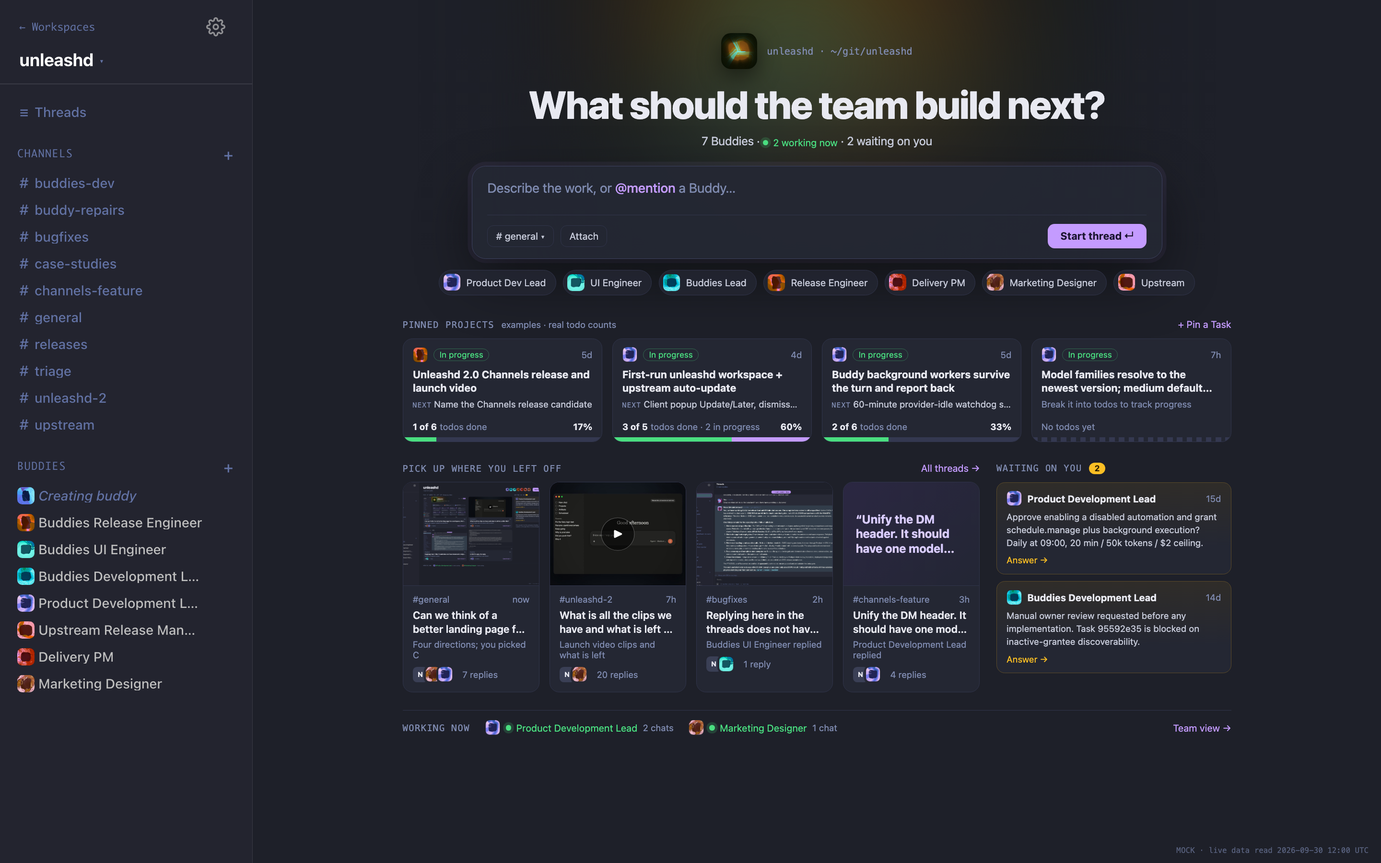
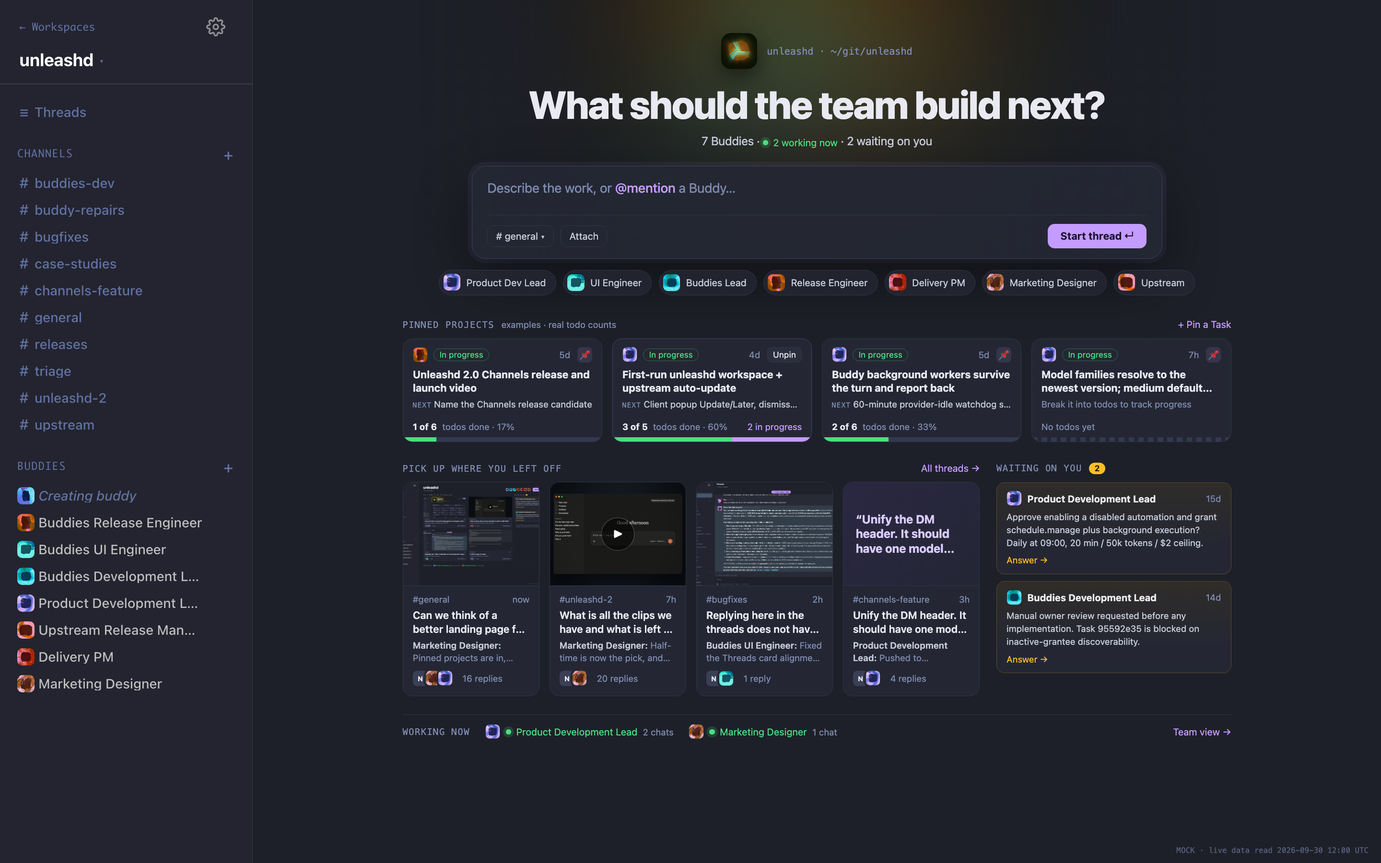
design: workspace home spec pass: real reply excerpts, pin/unpin, 'N of M todos done · P%', clearer no-Buddies copy

diff --git a/product/design/workspace-home/home-phone.html b/product/design/workspace-home/home-phone.html
@@ -30,7 +30,8 @@ h1 { text-align: center; font-weight: 800; color: var(--text); letter-spacing: -
 .t-body { padding: 12px 14px 14px; }
 .t-meta { display: flex; justify-content: space-between; font-size: 13px; }
 .t-title { color: var(--text); font-weight: 600; margin-top: 5px; line-height: 1.35; display: -webkit-box; -webkit-line-clamp: 2; -webkit-box-orient: vertical; overflow: hidden; }
-.t-sum { font-size: 13px; color: var(--muted); margin-top: 4px; }
+.t-sum { font-size: 13px; color: var(--muted); margin-top: 4px; line-height: 1.4; display: -webkit-box; -webkit-line-clamp: 2; -webkit-box-orient: vertical; overflow: hidden; }
+.t-sum b { color: var(--body); font-weight: 600; }
 .t-foot { display: flex; align-items: center; gap: 10px; margin-top: 10px; }
 .ps { display: flex; }
 .pf, .you-av { width: 22px; height: 22px; border-radius: 6px; margin-right: -4px; box-shadow: 0 0 0 2px var(--card); }
@@ -56,7 +57,10 @@ h1 { text-align: center; font-weight: 800; color: var(--text); letter-spacing: -
 .pj-next { font-size: 13px; color: var(--body); margin-top: 6px; white-space: nowrap; overflow: hidden; text-overflow: ellipsis; }
 .pj-count { font-size: 13px; color: var(--muted); margin-top: auto; padding-top: 10px; display: flex; gap: 4px; }
 .pj-count b { color: var(--text); }
-.pj-count span { margin-left: auto; color: var(--text); font-weight: 700; }
+.pj-count .pj-doing { margin-left: auto; color: var(--accent); }
+.pin { margin-left: 2px; width: 22px; height: 22px; border-radius: 6px; display: grid; place-items: center; color: var(--accent); background: rgba(196,155,255,.12); font-size: 12px; }
+.pin.hover { background: var(--card-hi); color: var(--text); width: auto; padding: 0 8px; font-size: 12px; border: 1px solid var(--line); }
+.pj.hover { border-color: #4b3f6e; }
 .muted { color: var(--muted) !important; }
 .pbar { height: 6px; background: #343850; margin: 8px -14px 0; display: flex; }
 .pbar i { display: block; height: 100%; }
@@ -108,9 +112,9 @@ h1 { font-size: 30px; margin-top: 18px; line-height: 1.1; }
 <div class="composer"><div class="ph">Describe the work, or <b>@mention</b>&hellip;</div>
 <div class="bar"><span class="sel"># general &#9662;</span><span class="send">Start &#8629;</span></div></div>
 <div class="chips"><span class="chip"><img src="assets/face-product-lead.png" alt="">Product Dev Lead</span><span class="chip"><img src="assets/face-ui-engineer.png" alt="">UI Engineer</span><span class="chip"><img src="assets/face-dev-lead.png" alt="">Buddies Lead</span><span class="chip"><img src="assets/face-release-engineer.png" alt="">Release Engineer</span><span class="chip"><img src="assets/face-delivery-pm.png" alt="">Delivery PM</span><span class="chip"><img src="assets/face-marketing.png" alt="">Marketing Designer</span><span class="chip"><img src="assets/face-upstream.png" alt="">Upstream</span></div>
-<section class="projects "><div class="sec-head"><span class="label">Pinned projects</span><span class="when">examples &middot; real todo counts</span><a class="more">+ Pin a Task</a></div><div class="pj-row"><article class="pj"><div class="pj-top"><img src="assets/face-release-engineer.png" alt="" title="Buddies Release Engineer"><span class="pj-status">In progress</span><span class="when">5d</span></div><div class="pj-title">Unleashd 2.0 Channels release and launch video</div><div class="pj-next"><span class="label" style="font-size:10px">Next</span> Name the Channels release candidate</div><div class="pj-count"><b>1 of 6</b> todos done<span>17%</span></div><div class="pbar"><i class="done" style="width:16.67%"></i></div></article><article class="pj"><div class="pj-top"><img src="assets/face-product-lead.png" alt="" title="Product Development Lead"><span class="pj-status">In progress</span><span class="when">4d</span></div><div class="pj-title">First-run unleashd workspace + upstream auto-update</div><div class="pj-next"><span class="label" style="font-size:10px">Next</span> Client popup Update/Later, dismissal keyed by upstream sha</div><div class="pj-count"><b>3 of 5</b> todos done &middot; 2 in progress<span>60%</span></div><div class="pbar"><i class="done" style="width:60.00%"></i><i class="doing" style="width:40.00%"></i></div></article><article class="pj"><div class="pj-top"><img src="assets/face-product-lead.png" alt="" title="Product Development Lead"><span class="pj-status">In progress</span><span class="when">5d</span></div><div class="pj-title">Buddy background workers survive the turn and report back</div><div class="pj-next"><span class="label" style="font-size:10px">Next</span> 60-minute provider-idle watchdog still kills a silent Claude wait</div><div class="pj-count"><b>2 of 6</b> todos done<span>33%</span></div><div class="pbar"><i class="done" style="width:33.33%"></i></div></article><article class="pj"><div class="pj-top"><img src="assets/face-product-lead.png" alt="" title="Product Development Lead"><span class="pj-status">In progress</span><span class="when">7h</span></div><div class="pj-title">Model families resolve to the newest version; medium default effort</div><div class="pj-next muted">Break it into todos to track progress</div><div class="pj-count muted">No todos yet</div><div class="pbar empty"></div></article></div></section>
+<section class="projects "><div class="sec-head"><span class="label">Pinned projects</span><span class="when">examples &middot; real todo counts</span><a class="more">+ Pin a Task</a></div><div class="pj-row"><article class="pj"><div class="pj-top"><img src="assets/face-release-engineer.png" alt="" title="Buddies Release Engineer"><span class="pj-status">In progress</span><span class="when">5d</span><span class="pin" title="Pinned">&#128204;</span></div><div class="pj-title">Unleashd 2.0 Channels release and launch video</div><div class="pj-next"><span class="label" style="font-size:10px">Next</span> Name the Channels release candidate</div><div class="pj-count"><b>1 of 6</b>&nbsp;todos done &middot; 17%<span class="pj-doing"></span></div><div class="pbar"><i class="done" style="width:16.67%"></i></div></article><article class="pj hover"><div class="pj-top"><img src="assets/face-product-lead.png" alt="" title="Product Development Lead"><span class="pj-status">In progress</span><span class="when">4d</span><span class="pin hover">Unpin</span></div><div class="pj-title">First-run unleashd workspace + upstream auto-update</div><div class="pj-next"><span class="label" style="font-size:10px">Next</span> Client popup Update/Later, dismissal keyed by upstream sha</div><div class="pj-count"><b>3 of 5</b>&nbsp;todos done &middot; 60%<span class="pj-doing">2 in progress</span></div><div class="pbar"><i class="done" style="width:60.00%"></i><i class="doing" style="width:40.00%"></i></div></article><article class="pj"><div class="pj-top"><img src="assets/face-product-lead.png" alt="" title="Product Development Lead"><span class="pj-status">In progress</span><span class="when">5d</span><span class="pin" title="Pinned">&#128204;</span></div><div class="pj-title">Buddy background workers survive the turn and report back</div><div class="pj-next"><span class="label" style="font-size:10px">Next</span> 60-minute provider-idle watchdog still kills a silent Claude wait</div><div class="pj-count"><b>2 of 6</b>&nbsp;todos done &middot; 33%<span class="pj-doing"></span></div><div class="pbar"><i class="done" style="width:33.33%"></i></div></article><article class="pj"><div class="pj-top"><img src="assets/face-product-lead.png" alt="" title="Product Development Lead"><span class="pj-status">In progress</span><span class="when">7h</span><span class="pin" title="Pinned">&#128204;</span></div><div class="pj-title">Model families resolve to the newest version; medium default effort</div><div class="pj-next muted">Break it into todos to track progress</div><div class="pj-count muted">No todos yet</div><div class="pbar empty"></div></article></div></section>
 <section class="sec"><div class="sec-head"><span class="label">Waiting on you</span><span class="cnt">2</span></div><div class="rq"><div class="rq-h"><img src="assets/face-product-lead.png" alt=""><b>Product Development Lead</b><span class="when">15d</span></div><div class="rq-t">Approve enabling a disabled automation and grant schedule.manage plus background execution? Daily at 09:00, 20 min / 50k tokens / $2 ceiling.</div><div class="rq-a">Answer &rarr;</div></div><div class="rq"><div class="rq-h"><img src="assets/face-dev-lead.png" alt=""><b>Buddies Development Lead</b><span class="when">14d</span></div><div class="rq-t">Manual owner review requested before any implementation. Task 95592e35 is blocked on inactive-grantee discoverability.</div><div class="rq-a">Answer &rarr;</div></div></section>
 <section class="sec"><div class="sec-head"><span class="label">Pick up where you left off</span></div>
-<div class="rail-row"><article class="t"><div class="pv" style="background-image:url(assets/prev-general.png)"></div><div class="t-body"><div class="t-meta"><span class="hash">#general</span><span class="when">now</span></div><div class="t-title">Can we think of a better landing page for a workspace, this is so uninspiring</div><div class="t-sum">Four directions; you picked C</div><div class="t-foot"><span class="ps"><span class="you-av">N</span><img class="pf" src="assets/face-marketing.png" alt=""><img class="pf" src="assets/face-product-lead.png" alt=""></span><span class="when">7 replies</span></div></div></article><article class="t"><div class="pv" style="background-image:url(assets/prev-clips.jpg)"><span class="play">&#9654;</span></div><div class="t-body"><div class="t-meta"><span class="hash">#unleashd-2</span><span class="when">7h</span></div><div class="t-title">What is all the clips we have and what is left to publish this?</div><div class="t-sum">Launch video clips and what is left</div><div class="t-foot"><span class="ps"><span class="you-av">N</span><img class="pf" src="assets/face-marketing.png" alt=""></span><span class="when">20 replies</span></div></div></article><article class="t"><div class="pv" style="background-image:url(assets/prev-thread-ui.png)"></div><div class="t-body"><div class="t-meta"><span class="hash">#bugfixes</span><span class="when">2h</span></div><div class="t-title">Replying here in the threads does not have balanced or aligned UI, we need to fix that</div><div class="t-sum">Buddies UI Engineer replied</div><div class="t-foot"><span class="ps"><span class="you-av">N</span><img class="pf" src="assets/face-ui-engineer.png" alt=""></span><span class="when">1 reply</span></div></div></article><article class="t"><div class="pv pv-text"><span>&ldquo;Unify the DM header. It should have one model picker and not grey out harness change&rdquo;</span></div><div class="t-body"><div class="t-meta"><span class="hash">#channels-feature</span><span class="when">3h</span></div><div class="t-title">Unify the DM header. It should have one model picker and not grey out harness change</div><div class="t-sum">Product Development Lead replied</div><div class="t-foot"><span class="ps"><span class="you-av">N</span><img class="pf" src="assets/face-product-lead.png" alt=""></span><span class="when">4 replies</span></div></div></article></div></section>
+<div class="rail-row"><article class="t"><div class="pv" style="background-image:url(assets/prev-general.png)"></div><div class="t-body"><div class="t-meta"><span class="hash">#general</span><span class="when">now</span></div><div class="t-title">Can we think of a better landing page for a workspace, this is so uninspiring</div><div class="t-sum"><b>Marketing Designer:</b> Pinned projects are in, directly under the composer</div><div class="t-foot"><span class="ps"><span class="you-av">N</span><img class="pf" src="assets/face-marketing.png" alt=""><img class="pf" src="assets/face-product-lead.png" alt=""></span><span class="when">16 replies</span></div></div></article><article class="t"><div class="pv" style="background-image:url(assets/prev-clips.jpg)"><span class="play">&#9654;</span></div><div class="t-body"><div class="t-meta"><span class="hash">#unleashd-2</span><span class="when">7h</span></div><div class="t-title">What is all the clips we have and what is left to publish this?</div><div class="t-sum"><b>Marketing Designer:</b> Half-time is now the pick, and it's 10 dB quieter and rebalanced</div><div class="t-foot"><span class="ps"><span class="you-av">N</span><img class="pf" src="assets/face-marketing.png" alt=""></span><span class="when">20 replies</span></div></div></article><article class="t"><div class="pv" style="background-image:url(assets/prev-thread-ui.png)"></div><div class="t-body"><div class="t-meta"><span class="hash">#bugfixes</span><span class="when">2h</span></div><div class="t-title">Replying here in the threads does not have balanced or aligned UI, we need to fix that</div><div class="t-sum"><b>Buddies UI Engineer:</b> Fixed the Threads card alignment on desktop and phone</div><div class="t-foot"><span class="ps"><span class="you-av">N</span><img class="pf" src="assets/face-ui-engineer.png" alt=""></span><span class="when">1 reply</span></div></div></article><article class="t"><div class="pv pv-text"><span>&ldquo;Unify the DM header. It should have one model picker and not grey out harness change&rdquo;</span></div><div class="t-body"><div class="t-meta"><span class="hash">#channels-feature</span><span class="when">3h</span></div><div class="t-title">Unify the DM header. It should have one model picker and not grey out harness change</div><div class="t-sum"><b>Product Development Lead:</b> Pushed to origin/main. It went from 5c9381e to 09d8b0e</div><div class="t-foot"><span class="ps"><span class="you-av">N</span><img class="pf" src="assets/face-product-lead.png" alt=""></span><span class="when">4 replies</span></div></div></article></div></section>
 <div class="working"><span class="label">Working now</span><span class="w"><img src="assets/face-product-lead.png" alt=""><span class="live">Product Development Lead</span><span class="when">2 chats</span></span><span class="w"><img src="assets/face-marketing.png" alt=""><span class="live">Marketing Designer</span><span class="when">1 chat</span></span><a class="more">Team view &rarr;</a></div>
 </div><div class="tabs"><img src="assets/phone-tabbar.png" alt=""></div></main></body></html>

diff --git a/product/design/workspace-home/home-desktop.html b/product/design/workspace-home/home-desktop.html
@@ -30,7 +30,8 @@ h1 { text-align: center; font-weight: 800; color: var(--text); letter-spacing: -
 .t-body { padding: 12px 14px 14px; }
 .t-meta { display: flex; justify-content: space-between; font-size: 13px; }
 .t-title { color: var(--text); font-weight: 600; margin-top: 5px; line-height: 1.35; display: -webkit-box; -webkit-line-clamp: 2; -webkit-box-orient: vertical; overflow: hidden; }
-.t-sum { font-size: 13px; color: var(--muted); margin-top: 4px; }
+.t-sum { font-size: 13px; color: var(--muted); margin-top: 4px; line-height: 1.4; display: -webkit-box; -webkit-line-clamp: 2; -webkit-box-orient: vertical; overflow: hidden; }
+.t-sum b { color: var(--body); font-weight: 600; }
 .t-foot { display: flex; align-items: center; gap: 10px; margin-top: 10px; }
 .ps { display: flex; }
 .pf, .you-av { width: 22px; height: 22px; border-radius: 6px; margin-right: -4px; box-shadow: 0 0 0 2px var(--card); }
@@ -56,7 +57,10 @@ h1 { text-align: center; font-weight: 800; color: var(--text); letter-spacing: -
 .pj-next { font-size: 13px; color: var(--body); margin-top: 6px; white-space: nowrap; overflow: hidden; text-overflow: ellipsis; }
 .pj-count { font-size: 13px; color: var(--muted); margin-top: auto; padding-top: 10px; display: flex; gap: 4px; }
 .pj-count b { color: var(--text); }
-.pj-count span { margin-left: auto; color: var(--text); font-weight: 700; }
+.pj-count .pj-doing { margin-left: auto; color: var(--accent); }
+.pin { margin-left: 2px; width: 22px; height: 22px; border-radius: 6px; display: grid; place-items: center; color: var(--accent); background: rgba(196,155,255,.12); font-size: 12px; }
+.pin.hover { background: var(--card-hi); color: var(--text); width: auto; padding: 0 8px; font-size: 12px; border: 1px solid var(--line); }
+.pj.hover { border-color: #4b3f6e; }
 .muted { color: var(--muted) !important; }
 .pbar { height: 6px; background: #343850; margin: 8px -14px 0; display: flex; }
 .pbar i { display: block; height: 100%; }
@@ -97,10 +101,10 @@ h1 { font-size: 56px; margin-top: 18px; }
 <div class="composer"><div class="ph">Describe the work, or <b>@mention</b> a Buddy&hellip;</div>
 <div class="bar"><span class="sel"># general &#9662;</span><span class="sel">Attach</span><span class="send">Start thread &#8629;</span></div></div>
 <div class="chips"><span class="chip"><img src="assets/face-product-lead.png" alt="">Product Dev Lead</span><span class="chip"><img src="assets/face-ui-engineer.png" alt="">UI Engineer</span><span class="chip"><img src="assets/face-dev-lead.png" alt="">Buddies Lead</span><span class="chip"><img src="assets/face-release-engineer.png" alt="">Release Engineer</span><span class="chip"><img src="assets/face-delivery-pm.png" alt="">Delivery PM</span><span class="chip"><img src="assets/face-marketing.png" alt="">Marketing Designer</span><span class="chip"><img src="assets/face-upstream.png" alt="">Upstream</span></div>
-<section class="projects "><div class="sec-head"><span class="label">Pinned projects</span><span class="when">examples &middot; real todo counts</span><a class="more">+ Pin a Task</a></div><div class="pj-row"><article class="pj"><div class="pj-top"><img src="assets/face-release-engineer.png" alt="" title="Buddies Release Engineer"><span class="pj-status">In progress</span><span class="when">5d</span></div><div class="pj-title">Unleashd 2.0 Channels release and launch video</div><div class="pj-next"><span class="label" style="font-size:10px">Next</span> Name the Channels release candidate</div><div class="pj-count"><b>1 of 6</b> todos done<span>17%</span></div><div class="pbar"><i class="done" style="width:16.67%"></i></div></article><article class="pj"><div class="pj-top"><img src="assets/face-product-lead.png" alt="" title="Product Development Lead"><span class="pj-status">In progress</span><span class="when">4d</span></div><div class="pj-title">First-run unleashd workspace + upstream auto-update</div><div class="pj-next"><span class="label" style="font-size:10px">Next</span> Client popup Update/Later, dismissal keyed by upstream sha</div><div class="pj-count"><b>3 of 5</b> todos done &middot; 2 in progress<span>60%</span></div><div class="pbar"><i class="done" style="width:60.00%"></i><i class="doing" style="width:40.00%"></i></div></article><article class="pj"><div class="pj-top"><img src="assets/face-product-lead.png" alt="" title="Product Development Lead"><span class="pj-status">In progress</span><span class="when">5d</span></div><div class="pj-title">Buddy background workers survive the turn and report back</div><div class="pj-next"><span class="label" style="font-size:10px">Next</span> 60-minute provider-idle watchdog still kills a silent Claude wait</div><div class="pj-count"><b>2 of 6</b> todos done<span>33%</span></div><div class="pbar"><i class="done" style="width:33.33%"></i></div></article><article class="pj"><div class="pj-top"><img src="assets/face-product-lead.png" alt="" title="Product Development Lead"><span class="pj-status">In progress</span><span class="when">7h</span></div><div class="pj-title">Model families resolve to the newest version; medium default effort</div><div class="pj-next muted">Break it into todos to track progress</div><div class="pj-count muted">No todos yet</div><div class="pbar empty"></div></article></div></section>
+<section class="projects "><div class="sec-head"><span class="label">Pinned projects</span><span class="when">examples &middot; real todo counts</span><a class="more">+ Pin a Task</a></div><div class="pj-row"><article class="pj"><div class="pj-top"><img src="assets/face-release-engineer.png" alt="" title="Buddies Release Engineer"><span class="pj-status">In progress</span><span class="when">5d</span><span class="pin" title="Pinned">&#128204;</span></div><div class="pj-title">Unleashd 2.0 Channels release and launch video</div><div class="pj-next"><span class="label" style="font-size:10px">Next</span> Name the Channels release candidate</div><div class="pj-count"><b>1 of 6</b>&nbsp;todos done &middot; 17%<span class="pj-doing"></span></div><div class="pbar"><i class="done" style="width:16.67%"></i></div></article><article class="pj hover"><div class="pj-top"><img src="assets/face-product-lead.png" alt="" title="Product Development Lead"><span class="pj-status">In progress</span><span class="when">4d</span><span class="pin hover">Unpin</span></div><div class="pj-title">First-run unleashd workspace + upstream auto-update</div><div class="pj-next"><span class="label" style="font-size:10px">Next</span> Client popup Update/Later, dismissal keyed by upstream sha</div><div class="pj-count"><b>3 of 5</b>&nbsp;todos done &middot; 60%<span class="pj-doing">2 in progress</span></div><div class="pbar"><i class="done" style="width:60.00%"></i><i class="doing" style="width:40.00%"></i></div></article><article class="pj"><div class="pj-top"><img src="assets/face-product-lead.png" alt="" title="Product Development Lead"><span class="pj-status">In progress</span><span class="when">5d</span><span class="pin" title="Pinned">&#128204;</span></div><div class="pj-title">Buddy background workers survive the turn and report back</div><div class="pj-next"><span class="label" style="font-size:10px">Next</span> 60-minute provider-idle watchdog still kills a silent Claude wait</div><div class="pj-count"><b>2 of 6</b>&nbsp;todos done &middot; 33%<span class="pj-doing"></span></div><div class="pbar"><i class="done" style="width:33.33%"></i></div></article><article class="pj"><div class="pj-top"><img src="assets/face-product-lead.png" alt="" title="Product Development Lead"><span class="pj-status">In progress</span><span class="when">7h</span><span class="pin" title="Pinned">&#128204;</span></div><div class="pj-title">Model families resolve to the newest version; medium default effort</div><div class="pj-next muted">Break it into todos to track progress</div><div class="pj-count muted">No todos yet</div><div class="pbar empty"></div></article></div></section>
 <div class="cols">
 <section><div class="sec-head"><span class="label">Pick up where you left off</span><a class="more">All threads &rarr;</a></div>
-<div class="threads"><article class="t"><div class="pv" style="background-image:url(assets/prev-general.png)"></div><div class="t-body"><div class="t-meta"><span class="hash">#general</span><span class="when">now</span></div><div class="t-title">Can we think of a better landing page for a workspace, this is so uninspiring</div><div class="t-sum">Four directions; you picked C</div><div class="t-foot"><span class="ps"><span class="you-av">N</span><img class="pf" src="assets/face-marketing.png" alt=""><img class="pf" src="assets/face-product-lead.png" alt=""></span><span class="when">7 replies</span></div></div></article><article class="t"><div class="pv" style="background-image:url(assets/prev-clips.jpg)"><span class="play">&#9654;</span></div><div class="t-body"><div class="t-meta"><span class="hash">#unleashd-2</span><span class="when">7h</span></div><div class="t-title">What is all the clips we have and what is left to publish this?</div><div class="t-sum">Launch video clips and what is left</div><div class="t-foot"><span class="ps"><span class="you-av">N</span><img class="pf" src="assets/face-marketing.png" alt=""></span><span class="when">20 replies</span></div></div></article><article class="t"><div class="pv" style="background-image:url(assets/prev-thread-ui.png)"></div><div class="t-body"><div class="t-meta"><span class="hash">#bugfixes</span><span class="when">2h</span></div><div class="t-title">Replying here in the threads does not have balanced or aligned UI, we need to fix that</div><div class="t-sum">Buddies UI Engineer replied</div><div class="t-foot"><span class="ps"><span class="you-av">N</span><img class="pf" src="assets/face-ui-engineer.png" alt=""></span><span class="when">1 reply</span></div></div></article><article class="t"><div class="pv pv-text"><span>&ldquo;Unify the DM header. It should have one model picker and not grey out harness change&rdquo;</span></div><div class="t-body"><div class="t-meta"><span class="hash">#channels-feature</span><span class="when">3h</span></div><div class="t-title">Unify the DM header. It should have one model picker and not grey out harness change</div><div class="t-sum">Product Development Lead replied</div><div class="t-foot"><span class="ps"><span class="you-av">N</span><img class="pf" src="assets/face-product-lead.png" alt=""></span><span class="when">4 replies</span></div></div></article></div></section>
+<div class="threads"><article class="t"><div class="pv" style="background-image:url(assets/prev-general.png)"></div><div class="t-body"><div class="t-meta"><span class="hash">#general</span><span class="when">now</span></div><div class="t-title">Can we think of a better landing page for a workspace, this is so uninspiring</div><div class="t-sum"><b>Marketing Designer:</b> Pinned projects are in, directly under the composer</div><div class="t-foot"><span class="ps"><span class="you-av">N</span><img class="pf" src="assets/face-marketing.png" alt=""><img class="pf" src="assets/face-product-lead.png" alt=""></span><span class="when">16 replies</span></div></div></article><article class="t"><div class="pv" style="background-image:url(assets/prev-clips.jpg)"><span class="play">&#9654;</span></div><div class="t-body"><div class="t-meta"><span class="hash">#unleashd-2</span><span class="when">7h</span></div><div class="t-title">What is all the clips we have and what is left to publish this?</div><div class="t-sum"><b>Marketing Designer:</b> Half-time is now the pick, and it's 10 dB quieter and rebalanced</div><div class="t-foot"><span class="ps"><span class="you-av">N</span><img class="pf" src="assets/face-marketing.png" alt=""></span><span class="when">20 replies</span></div></div></article><article class="t"><div class="pv" style="background-image:url(assets/prev-thread-ui.png)"></div><div class="t-body"><div class="t-meta"><span class="hash">#bugfixes</span><span class="when">2h</span></div><div class="t-title">Replying here in the threads does not have balanced or aligned UI, we need to fix that</div><div class="t-sum"><b>Buddies UI Engineer:</b> Fixed the Threads card alignment on desktop and phone</div><div class="t-foot"><span class="ps"><span class="you-av">N</span><img class="pf" src="assets/face-ui-engineer.png" alt=""></span><span class="when">1 reply</span></div></div></article><article class="t"><div class="pv pv-text"><span>&ldquo;Unify the DM header. It should have one model picker and not grey out harness change&rdquo;</span></div><div class="t-body"><div class="t-meta"><span class="hash">#channels-feature</span><span class="when">3h</span></div><div class="t-title">Unify the DM header. It should have one model picker and not grey out harness change</div><div class="t-sum"><b>Product Development Lead:</b> Pushed to origin/main. It went from 5c9381e to 09d8b0e</div><div class="t-foot"><span class="ps"><span class="you-av">N</span><img class="pf" src="assets/face-product-lead.png" alt=""></span><span class="when">4 replies</span></div></div></article></div></section>
 <aside><div class="sec-head"><span class="label">Waiting on you</span><span class="cnt">2</span></div><div class="rq"><div class="rq-h"><img src="assets/face-product-lead.png" alt=""><b>Product Development Lead</b><span class="when">15d</span></div><div class="rq-t">Approve enabling a disabled automation and grant schedule.manage plus background execution? Daily at 09:00, 20 min / 50k tokens / $2 ceiling.</div><div class="rq-a">Answer &rarr;</div></div><div class="rq"><div class="rq-h"><img src="assets/face-dev-lead.png" alt=""><b>Buddies Development Lead</b><span class="when">14d</span></div><div class="rq-t">Manual owner review requested before any implementation. Task 95592e35 is blocked on inactive-grantee discoverability.</div><div class="rq-a">Answer &rarr;</div></div></aside>
 </div>
 <div class="working"><span class="label">Working now</span><span class="w"><img src="assets/face-product-lead.png" alt=""><span class="live">Product Development Lead</span><span class="when">2 chats</span></span><span class="w"><img src="assets/face-marketing.png" alt=""><span class="live">Marketing Designer</span><span class="when">1 chat</span></span><a class="more">Team view &rarr;</a></div>

diff --git a/product/design/workspace-home/home-empty.html b/product/design/workspace-home/home-empty.html
@@ -30,7 +30,8 @@ h1 { text-align: center; font-weight: 800; color: var(--text); letter-spacing: -
 .t-body { padding: 12px 14px 14px; }
 .t-meta { display: flex; justify-content: space-between; font-size: 13px; }
 .t-title { color: var(--text); font-weight: 600; margin-top: 5px; line-height: 1.35; display: -webkit-box; -webkit-line-clamp: 2; -webkit-box-orient: vertical; overflow: hidden; }
-.t-sum { font-size: 13px; color: var(--muted); margin-top: 4px; }
+.t-sum { font-size: 13px; color: var(--muted); margin-top: 4px; line-height: 1.4; display: -webkit-box; -webkit-line-clamp: 2; -webkit-box-orient: vertical; overflow: hidden; }
+.t-sum b { color: var(--body); font-weight: 600; }
 .t-foot { display: flex; align-items: center; gap: 10px; margin-top: 10px; }
 .ps { display: flex; }
 .pf, .you-av { width: 22px; height: 22px; border-radius: 6px; margin-right: -4px; box-shadow: 0 0 0 2px var(--card); }
@@ -56,7 +57,10 @@ h1 { text-align: center; font-weight: 800; color: var(--text); letter-spacing: -
 .pj-next { font-size: 13px; color: var(--body); margin-top: 6px; white-space: nowrap; overflow: hidden; text-overflow: ellipsis; }
 .pj-count { font-size: 13px; color: var(--muted); margin-top: auto; padding-top: 10px; display: flex; gap: 4px; }
 .pj-count b { color: var(--text); }
-.pj-count span { margin-left: auto; color: var(--text); font-weight: 700; }
+.pj-count .pj-doing { margin-left: auto; color: var(--accent); }
+.pin { margin-left: 2px; width: 22px; height: 22px; border-radius: 6px; display: grid; place-items: center; color: var(--accent); background: rgba(196,155,255,.12); font-size: 12px; }
+.pin.hover { background: var(--card-hi); color: var(--text); width: auto; padding: 0 8px; font-size: 12px; border: 1px solid var(--line); }
+.pj.hover { border-color: #4b3f6e; }
 .muted { color: var(--muted) !important; }
 .pbar { height: 6px; background: #343850; margin: 8px -14px 0; display: flex; }
 .pbar i { display: block; height: 100%; }
@@ -98,6 +102,7 @@ h1 { font-size: 56px; margin-top: 18px; }
 .er-h { font-family: var(--mono); font-size: 13px; letter-spacing: .08em; color: var(--muted); margin-top: 34px; display: flex; justify-content: space-between; }
 .aura { background-image: url(assets/emblem-new.png); }
 .helper { margin-top: 18px; font-size: 15px; }
+.helper b { color: var(--text); font-weight: 600; }
 .starters { display: grid; grid-template-columns: repeat(3, 1fr); gap: 14px; width: 1000px; margin: 40px auto 0; }
 .starter { border: 1px dashed var(--line); border-radius: 14px; padding: 16px 18px; background: rgba(36,39,51,.5); }
 .starter b { color: var(--text); font-size: 15px; display: block; }
@@ -120,7 +125,7 @@ h1 { font-size: 56px; margin-top: 18px; }
 <div class="composer"><div class="ph">Describe the work&hellip;</div>
 <div class="bar"><span class="sel"># general &#9662;</span><span class="sel">Attach</span><span class="send">Start thread &#8629;</span></div></div>
 <div class="chips"><span class="chip hire">+ Hire your first Buddy</span></div>
-<p class="helper">Post here and @mention a Buddy to hand it the work.<br>Hire one first: describe the role, and the Builder drafts it.</p>
+<p class="helper"><b>Posting saves a thread in #general; nobody answers yet.</b><br>To get a reply, hire a Buddy (describe the role and the Builder drafts it), then @mention it.</p>
 <div class="starters">
 <div class="starter"><b>An engineer for this repo</b><span>Reads the code, fixes bugs, opens a branch per change.</span></div>
 <div class="starter"><b>A product lead</b><span>Turns your asks into Tasks and keeps the team on them.</span></div>

diff --git a/product/design/workspace-home/build_home.py b/product/design/workspace-home/build_home.py
@@ -28,20 +28,26 @@ TEAM = [
     ('upstream', 'Upstream'),
 ]
 
-# (preview or None, channel, root text, participants, replies, latest, is video, summary)
+# (preview or None, channel, root text, participants, replies, latest, is video, latest post excerpt)
+# The excerpt is the real latest post (author + opening words) from the threads
+# endpoint's tail, read 2026-09-30 12:10 UTC. No summarizer.
 THREADS = [
     ('assets/prev-general.png', '#general',
      'Can we think of a better landing page for a workspace, this is so uninspiring',
-     ['you', 'marketing', 'product-lead'], 7, 'now', False, 'Four directions; you picked C'),
+     ['you', 'marketing', 'product-lead'], 16, 'now', False,
+     ('Marketing Designer', 'Pinned projects are in, directly under the composer')),
     ('assets/prev-clips.jpg', '#unleashd-2',
      'What is all the clips we have and what is left to publish this?',
-     ['you', 'marketing'], 20, '7h', True, 'Launch video clips and what is left'),
+     ['you', 'marketing'], 20, '7h', True,
+     ('Marketing Designer', "Half-time is now the pick, and it's 10 dB quieter and rebalanced")),
     ('assets/prev-thread-ui.png', '#bugfixes',
      'Replying here in the threads does not have balanced or aligned UI, we need to fix that',
-     ['you', 'ui-engineer'], 1, '2h', False, 'Buddies UI Engineer replied'),
+     ['you', 'ui-engineer'], 1, '2h', False,
+     ('Buddies UI Engineer', 'Fixed the Threads card alignment on desktop and phone')),
     (None, '#channels-feature',
      'Unify the DM header. It should have one model picker and not grey out harness change',
-     ['you', 'product-lead'], 4, '3h', False, 'Product Development Lead replied'),
+     ['you', 'product-lead'], 4, '3h', False,
+     ('Product Development Lead', 'Pushed to origin/main. It went from 5c9381e to 09d8b0e')),
 ]
 
 # The open owner requests from this workspace's Buddies (excerpts).
@@ -82,8 +88,9 @@ PROJECTS = [
 ]
 
 
-def project_card(pr):
+def project_card(pr, hover=False):
     title, face, owner, status, done, doing, blocked, todo, nxt, when = pr
+    pin = '<span class="pin hover">Unpin</span>' if hover else '<span class="pin" title="Pinned">&#128204;</span>'
     total = done + doing + blocked + todo
     if total == 0:
         progress = '<div class="pj-count muted">No todos yet</div><div class="pbar empty"></div>'
@@ -95,18 +102,18 @@ def project_card(pr):
             for cls, n in (('done', done), ('doing', doing), ('blocked', blocked))
             if n
         )
-        extra = f' &middot; {doing} in progress' if doing else ''
-        progress = f'<div class="pj-count"><b>{done} of {total}</b> todos done{extra}<span>{pct}%</span></div><div class="pbar">{segs}</div>'
+        extra = f'{doing} in progress' if doing else ''
+        progress = f'<div class="pj-count"><b>{done} of {total}</b>&nbsp;todos done &middot; {pct}%<span class="pj-doing">{extra}</span></div><div class="pbar">{segs}</div>'
         step = f'<div class="pj-next"><span class="label" style="font-size:10px">Next</span> {nxt}</div>'
     return (
-        f'<article class="pj"><div class="pj-top"><img src="assets/face-{face}.png" alt="" title="{owner}">'
-        f'<span class="pj-status">{status}</span><span class="when">{when}</span></div>'
+        f'<article class="pj{" hover" if hover else ""}"><div class="pj-top"><img src="assets/face-{face}.png" alt="" title="{owner}">'
+        f'<span class="pj-status">{status}</span><span class="when">{when}</span>{pin}</div>'
         f'<div class="pj-title">{title}</div>{step}{progress}</article>'
     )
 
 
 def projects_section(extra_cls=''):
-    cards = ''.join(project_card(p) for p in PROJECTS)
+    cards = ''.join(project_card(p, hover=(i == 1)) for i, p in enumerate(PROJECTS))
     return (
         f'<section class="projects {extra_cls}"><div class="sec-head"><span class="label">Pinned projects</span>'
         f'<span class="when">examples &middot; real todo counts</span><a class="more">+ Pin a Task</a></div>'
@@ -134,7 +141,7 @@ def thread_card(t):
     return (
         f'<article class="t">{preview}<div class="t-body">'
         f'<div class="t-meta"><span class="hash">{ch}</span><span class="when">{when}</span></div>'
-        f'<div class="t-title">{text}</div><div class="t-sum">{summary}</div>'
+        f'<div class="t-title">{text}</div><div class="t-sum"><b>{summary[0]}:</b> {summary[1]}</div>'
         f'<div class="t-foot"><span class="ps">{people(ps)}</span><span class="when">{n} {word}</span></div>'
         f'</div></article>'
     )
@@ -192,7 +199,8 @@ h1 { text-align: center; font-weight: 800; color: var(--text); letter-spacing: -
 .t-body { padding: 12px 14px 14px; }
 .t-meta { display: flex; justify-content: space-between; font-size: 13px; }
 .t-title { color: var(--text); font-weight: 600; margin-top: 5px; line-height: 1.35; display: -webkit-box; -webkit-line-clamp: 2; -webkit-box-orient: vertical; overflow: hidden; }
-.t-sum { font-size: 13px; color: var(--muted); margin-top: 4px; }
+.t-sum { font-size: 13px; color: var(--muted); margin-top: 4px; line-height: 1.4; display: -webkit-box; -webkit-line-clamp: 2; -webkit-box-orient: vertical; overflow: hidden; }
+.t-sum b { color: var(--body); font-weight: 600; }
 .t-foot { display: flex; align-items: center; gap: 10px; margin-top: 10px; }
 .ps { display: flex; }
 .pf, .you-av { width: 22px; height: 22px; border-radius: 6px; margin-right: -4px; box-shadow: 0 0 0 2px var(--card); }
@@ -218,7 +226,10 @@ h1 { text-align: center; font-weight: 800; color: var(--text); letter-spacing: -
 .pj-next { font-size: 13px; color: var(--body); margin-top: 6px; white-space: nowrap; overflow: hidden; text-overflow: ellipsis; }
 .pj-count { font-size: 13px; color: var(--muted); margin-top: auto; padding-top: 10px; display: flex; gap: 4px; }
 .pj-count b { color: var(--text); }
-.pj-count span { margin-left: auto; color: var(--text); font-weight: 700; }
+.pj-count .pj-doing { margin-left: auto; color: var(--accent); }
+.pin { margin-left: 2px; width: 22px; height: 22px; border-radius: 6px; display: grid; place-items: center; color: var(--accent); background: rgba(196,155,255,.12); font-size: 12px; }
+.pin.hover { background: var(--card-hi); color: var(--text); width: auto; padding: 0 8px; font-size: 12px; border: 1px solid var(--line); }
+.pj.hover { border-color: #4b3f6e; }
 .muted { color: var(--muted) !important; }
 .pbar { height: 6px; background: #343850; margin: 8px -14px 0; display: flex; }
 .pbar i { display: block; height: 100%; }
@@ -344,6 +355,7 @@ EMPTY_CSS = DESKTOP_CSS + """
 .er-h { font-family: var(--mono); font-size: 13px; letter-spacing: .08em; color: var(--muted); margin-top: 34px; display: flex; justify-content: space-between; }
 .aura { background-image: url(assets/emblem-new.png); }
 .helper { margin-top: 18px; font-size: 15px; }
+.helper b { color: var(--text); font-weight: 600; }
 .starters { display: grid; grid-template-columns: repeat(3, 1fr); gap: 14px; width: 1000px; margin: 40px auto 0; }
 .starter { border: 1px dashed var(--line); border-radius: 14px; padding: 16px 18px; background: rgba(36,39,51,.5); }
 .starter b { color: var(--text); font-size: 15px; display: block; }
@@ -361,7 +373,7 @@ def empty():
 <div class="composer"><div class="ph">Describe the work&hellip;</div>
 <div class="bar"><span class="sel"># general &#9662;</span><span class="sel">Attach</span><span class="send">Start thread &#8629;</span></div></div>
 <div class="chips"><span class="chip hire">+ Hire your first Buddy</span></div>
-<p class="helper">Post here and @mention a Buddy to hand it the work.<br>Hire one first: describe the role, and the Builder drafts it.</p>
+<p class="helper"><b>Posting saves a thread in #general; nobody answers yet.</b><br>To get a reply, hire a Buddy (describe the role and the Builder drafts it), then @mention it.</p>
 <div class="starters">
 <div class="starter"><b>An engineer for this repo</b><span>Reads the code, fixes bugs, opens a branch per change.</span></div>
 <div class="starter"><b>A product lead</b><span>Turns your asks into Tasks and keeps the team on them.</span></div>

diff --git a/product/design/workspace-home/README.md b/product/design/workspace-home/README.md
@@ -18,15 +18,15 @@ following Product Development Lead's brief
 
 All three are generated by `build_home.py` from data read on 2026-09-30 through
 the owner's GET endpoints (`/threads`, `/inbox` filtered to this workspace's
-Buddies, `/runs?liveInWorkspace`). The grey line under each thread title is a
-designer summary, because the threads endpoint does not return the latest reply
-text. A text-only thread uses its opening words as its preview.
+Buddies, `/runs?liveInWorkspace`). The line under each thread title is the real latest
+post (author and opening words) from the threads endpoint's tail. There is no
+summarizer. A text-only thread uses its opening words as its preview.
 
 **Pinned projects.** The owner pins top-level Tasks. Each card shows the status,
 the owning Buddy, the next open todo, and a progress bar segmented into done
 (green), in progress (lavender) and blocked (amber). Progress is done / (all todos
 - cancelled); todos in review or blocked count as unfinished. A Task with no todos
-shows "No todos yet" and a dashed bar, never an invented percentage. The Task's own status stays
+shows "No todos yet" and a dashed bar, never an invented percentage. Every card carries a pin; hovering one turns it into "Unpin" (drawn on the second card). "+ Pin a Task" adds one. The Task's own status stays
 separate from its checklist (Product Development Lead's brief). The four cards are
 example picks with their real todo counts from 2026-09-30, because nothing is
 pinned yet.
